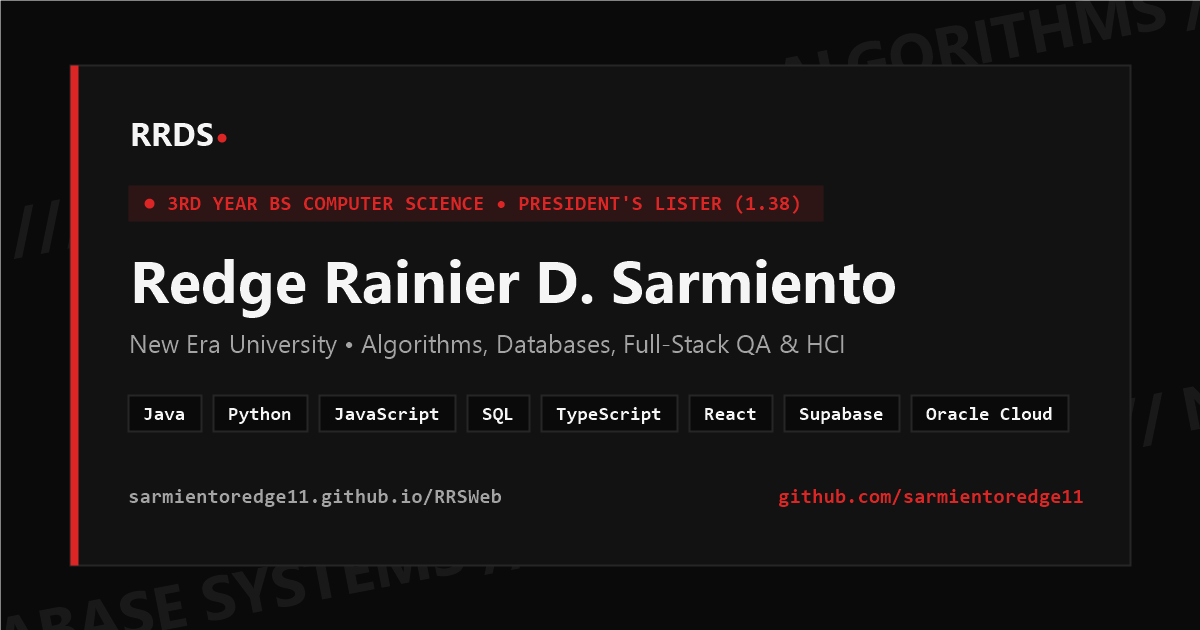
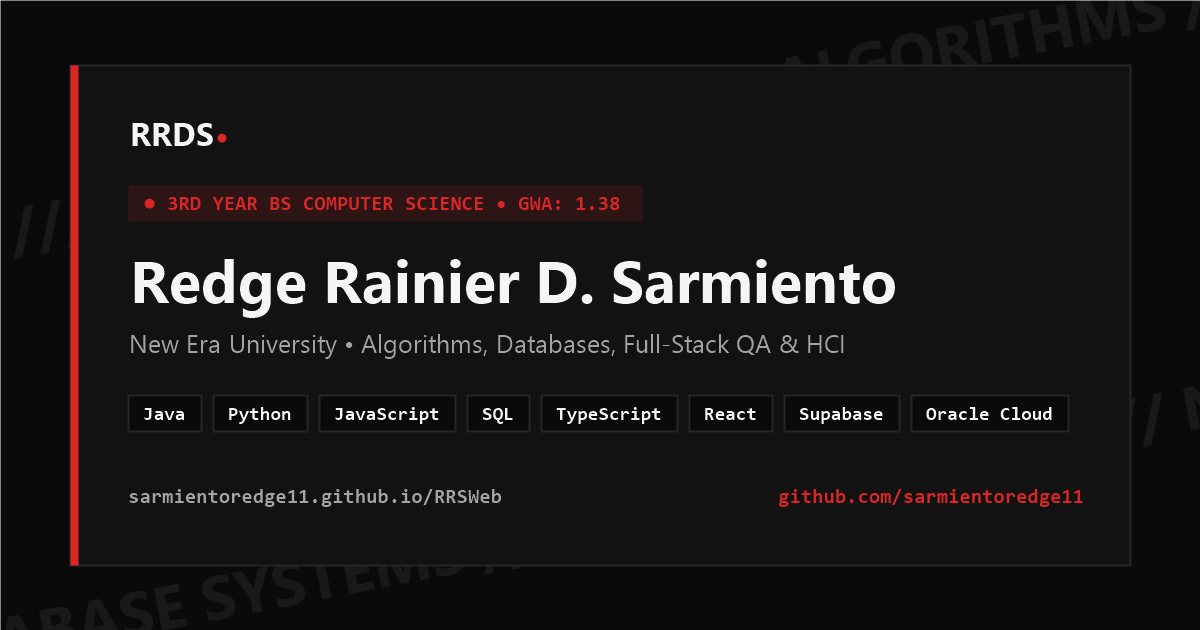
Remove President's Lister honor and redundant project filters

Changed region(s): [[0.4317, 0.2714, 0.7092, 0.3619]]

diff --git a/index.html b/index.html
@@ -5,7 +5,7 @@
   <meta name="viewport" content="width=device-width, initial-scale=1.0" />
   <meta
     name="description"
-    content="Portfolio of Redge Rainier D. Sarmiento — 3rd year BS Computer Science student at New Era University (President's Lister, 1.38 GWA). Open to Software Engineering & QA Internships."
+    content="Portfolio of Redge Rainier D. Sarmiento — 3rd year BS Computer Science student at New Era University (1.38 GWA). Open to Software Engineering & QA Internships."
   />
   <meta name="author" content="Redge Rainier D. Sarmiento" />
   <meta name="theme-color" content="#dc2626" />
@@ -16,7 +16,7 @@
   <meta property="og:title" content="Redge Rainier D. Sarmiento — Computer Science Portfolio" />
   <meta
     property="og:description"
-    content="3rd Year BS Computer Science Student at New Era University (President's Lister, 1.38 GWA). Explore my projects in Algorithms, Full-Stack ERP QA, and HCI."
+    content="3rd Year BS Computer Science Student at New Era University (1.38 GWA). Explore my projects in Algorithms, Web Apps, and HCI."
   />
   <meta property="og:image" content="https://sarmientoredge11.github.io/RRSWeb/og-preview.png" />
   <meta property="og:image:width" content="1200" />
@@ -210,8 +210,8 @@
       </div>
       <h1>Redge Rainier D. Sarmiento</h1>
       <p class="hero-bio">
-        BS Computer Science student and <strong>President's Lister (1.38 GWA)</strong>
-        at New Era University. I build clean web apps, work with databases, and test software.
+        BS Computer Science student (<strong>1.38 GWA</strong>) at New Era University.
+        I build clean web apps, work with databases, and test software.
       </p>
       <div class="hero-actions">
         <a href="#contact" class="btn btn-primary">
@@ -264,7 +264,6 @@
           </div>
           <div class="edu-badges">
             <span class="mono-tag">GWA: 1.38</span>
-            <span class="mono-tag honor-tag">President's Lister</span>
           </div>
         </div>
         <div class="edu-coursework">
@@ -401,14 +400,8 @@
 
     <!-- Projects Section -->
     <section id="projects" class="section container">
-      <div class="section-header section-header-wrap">
+      <div class="section-header">
         <h2>Projects</h2>
-        <div class="filter-group" role="group" aria-label="Filter projects by category">
-          <button type="button" class="filter-btn is-active" data-filter="all">All</button>
-          <button type="button" class="filter-btn" data-filter="hci">HCI</button>
-          <button type="button" class="filter-btn" data-filter="erp">Web</button>
-          <button type="button" class="filter-btn" data-filter="algorithms">Algorithms</button>
-        </div>
       </div>
       <div class="projects-grid">
         <article class="card project-card" data-category="hci" data-tech="HTML CSS JavaScript HCI">

diff --git a/script.js b/script.js
@@ -5,7 +5,6 @@ const copyEmailText = document.getElementById("copy-email-text");
 const themeToggle = document.getElementById("theme-toggle");
 const backToTopBtn = document.getElementById("back-to-top");
 const toast = document.getElementById("toast");
-const filterButtons = document.querySelectorAll(".filter-btn");
 const skillPills = document.querySelectorAll(".pill[data-skill]");
 const projectCards = document.querySelectorAll(".project-card");
 const sections = document.querySelectorAll("main section[id]");
@@ -77,21 +76,6 @@ if (copyEmailBtn) {
   });
 }
 
-// Project Category Filters
-filterButtons.forEach((btn) => {
-  btn.addEventListener("click", () => {
-    const filter = btn.dataset.filter;
-    filterButtons.forEach((b) => b.classList.toggle("is-active", b === btn));
-    skillPills.forEach((p) => p.classList.remove("is-active"));
-
-    projectCards.forEach((card) => {
-      card.classList.remove("is-highlighted");
-      const matches = filter === "all" || card.dataset.category === filter;
-      card.classList.toggle("is-hidden", !matches);
-    });
-  });
-});
-
 // Interactive Skill Pills -> Highlight Matching Projects
 skillPills.forEach((pill) => {
   pill.addEventListener("click", () => {
@@ -99,8 +83,7 @@ skillPills.forEach((pill) => {
     const wasActive = pill.classList.contains("is-active");
 
     skillPills.forEach((p) => p.classList.remove("is-active"));
-    filterButtons.forEach((b) => b.classList.toggle("is-active", b.dataset.filter === "all"));
-    projectCards.forEach((card) => card.classList.remove("is-hidden", "is-highlighted"));
+    projectCards.forEach((card) => card.classList.remove("is-highlighted"));
 
     if (wasActive) return;
 
